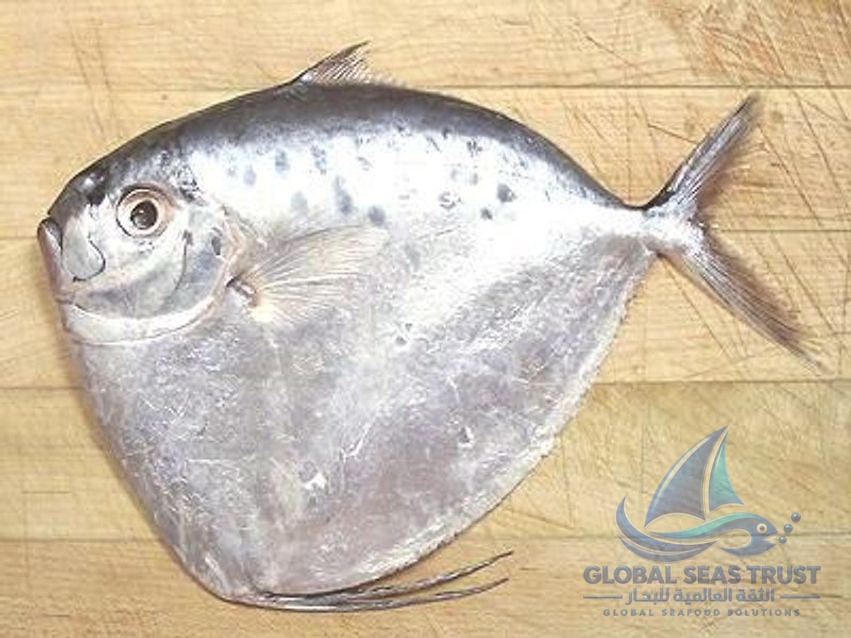
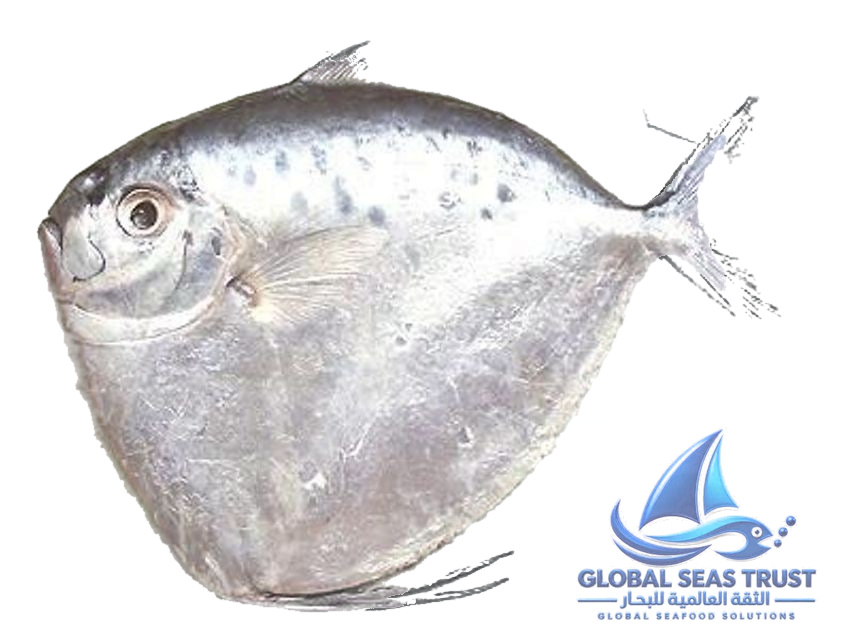
Add a second phone line, and finish the white-background pass
Three photos came back from the client cut out on white — Frigate Tuna,
Moon Fish and Pony Fish. That takes the catalogue to 20 of 21 on white,
as asked for on 29 Aug ("Please change the entire photos background into
white colour"). Only Yellowstripe Scad remains: a cropped close-up of a
heap of fish with no isolated subject, so it needs a reshoot rather than
editing. Automated removal was tried on all four and only worked on
Frigate Tuna, which the client's own version has since superseded.

Second line +968 9902 3664 is published beside the first on the Contact
card and in the footer, and offered by the enquiry form. A wa.me link
reaches exactly one recipient — there is no comma-separated form as there
is for mailto: — so Send Message now asks which number rather than
messaging both.

The WhatsApp number was hardcoded in EnquiryForm as '96893333731',
independent of company.phone and free to drift from the number shown
everywhere else. Both now derive from site.ts.

Care is needed in that submit handler: window.open must fire
synchronously as the first statement inside the chooser button's click,
or the browser stops treating it as user-initiated and blocks the popup —
which presents as the form silently doing nothing. The dialog close and
form reset run after it for that reason.

Two alt strings were still describing photographs deleted in 0b3c5c5. The
home sourcing image announced "Fishing fleet docked at the harbor" over a
[…]

diff --git a/src/i18n/ui.ts b/src/i18n/ui.ts
@@ -58,7 +58,7 @@ export const en = {
     p1: 'Our objective is to establish Global Seas Trust as a trusted and recognized global <mark>seafood processing and export company</mark>, supplying premium-quality seafood to international markets.',
     p2: 'We specialize in processing and supplying a wide range of seafood, including <mark>Sardine, Mackerel, Tuna, Aquaculture Shrimp</mark>, and other wild-caught fishes. By combining careful sourcing, professional processing, quality control, and reliable export operations, we strive to deliver products that consistently meet the expectations of our customers worldwide.',
     p3: 'We aim to continuously expand our international market presence, strengthen our processing and supply capabilities, develop new seafood products, and build lasting relationships with importers, distributors, wholesalers, retailers, and food-service businesses.',
-    imageAlt: 'Fresh catch displayed on a market stall',
+    imageAlt: 'A whole tuna, one of the species Global Seas Trust grades and blast freezes for export',
     missionTitle: 'Our Mission',
     missionP1:
       'At Global Seas Trust, our mission is to bring high-quality seafood from trusted sources to customers across the world. We are committed to delivering fresh and frozen seafood with uncompromising standards of quality, freshness, food safety, and reliability.',
@@ -231,6 +231,9 @@ export const en = {
     submit: 'Send Message',
     /** Opening line of the pre-filled WhatsApp chat message. */
     waIntro: 'New enquiry from the Global Seas Trust website',
+    waChooseTitle: 'Send to which number?',
+    waChooseHint: 'WhatsApp opens with your enquiry ready to send.',
+    waCancel: 'Cancel',
     success: 'Opening WhatsApp with your enquiry — press send in the chat to reach our trade desk.',
     phoneError: 'Enter a valid phone number for the selected country',
     invalidTitle: 'Invalid phone number',
@@ -302,7 +305,7 @@ export const ar: Ui = {
     p1: 'هدفنا هو ترسيخ الثقة العالمية للبحار كشركة عالمية موثوقة ومعروفة في <mark>تصنيع وتصدير المأكولات البحرية</mark>، تزوّد الأسواق الدولية بمأكولات بحرية عالية الجودة.',
     p2: 'نتخصص في تصنيع وتوريد مجموعة واسعة من المأكولات البحرية، تشمل <mark>السردين والماكريل والتونة وروبيان الاستزراع المائي</mark> وغيرها من الأسماك البرّية. وبالجمع بين المصادر المنتقاة والتصنيع الاحترافي وضبط الجودة وعمليات التصدير الموثوقة، نسعى إلى تقديم منتجات تلبّي باستمرار تطلعات عملائنا حول العالم.',
     p3: 'نهدف إلى التوسّع المستمر في حضورنا بالأسواق الدولية، وتعزيز قدراتنا في التصنيع والتوريد، وتطوير منتجات بحرية جديدة، وبناء علاقات دائمة مع المستوردين والموزّعين وتجار الجملة والتجزئة وشركات خدمات الطعام.',
-    imageAlt: 'صيد طازج معروض في سوق السمك',
+    imageAlt: 'سمكة تونة كاملة، من الأنواع التي تفرزها الثقة العالمية للبحار وتجمّدها تجميداً سريعاً للتصدير',
     missionTitle: 'رسالتنا',
     missionP1:
       'في الثقة العالمية للبحار، رسالتنا هي تقديم مأكولات بحرية عالية الجودة من مصادر موثوقة لعملائنا حول العالم. ونلتزم بتوفير مأكولات بحرية طازجة ومجمّدة وفق معايير لا تقبل المساومة في الجودة والنضارة وسلامة الغذاء والموثوقية.',
@@ -473,6 +476,9 @@ export const ar: Ui = {
     messagePh: 'النوع، الكمية، الدرجة، التعبئة، ميناء الوصول…',
     submit: 'إرسال الرسالة',
     waIntro: 'استفسار جديد من موقع الثقة العالمية للبحار',
+    waChooseTitle: 'إلى أي رقم تريد الإرسال؟',
+    waChooseHint: 'سيفتح واتساب ورسالتك جاهزة للإرسال.',
+    waCancel: 'إلغاء',
     success: 'يتم فتح واتساب مع استفسارك — اضغط إرسال داخل المحادثة للوصول إلى قسم المبيعات.',
     phoneError: 'أدخل رقم هاتف صالحاً للدولة المختارة',
     invalidTitle: 'رقم هاتف غير صالح',

diff --git a/src/data/site.ts b/src/data/site.ts
@@ -55,6 +55,8 @@ export const company = {
   /** Commercial Registration number (shown on the site — expected in the Gulf market). */
   crNumber: '1403379',
   phone: '+968 9333 3731',
+  /** Second line — shown beside the first on Contact, and offered by the enquiry form. */
+  phoneAlt: '+968 9902 3664',
   email: 'globalseastrust@gmail.com',
   /** Sales enquiries — published alongside the general address on /contact/. */
   emailSales: 'globalseastrustsales@gmail.com',
